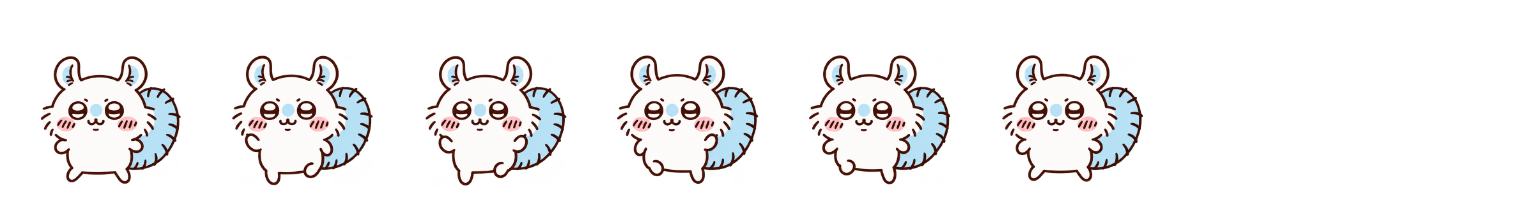
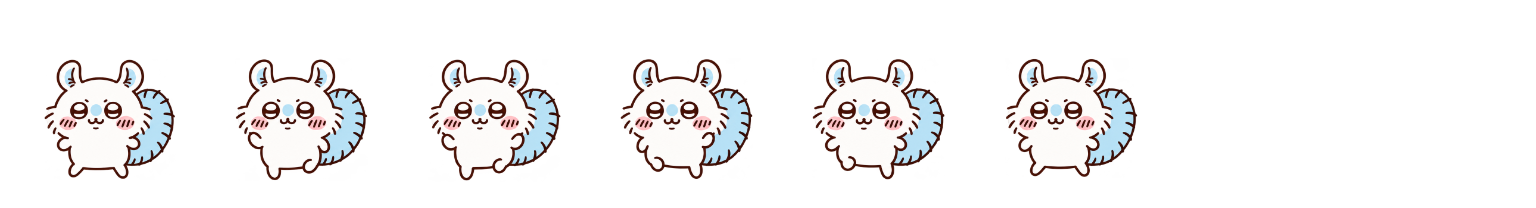
fix(momonga): keep grabbed animation at idle scale (#3)
Calibrate the six grabbed frames to the idle and walking face scale without changing frame timing or face anchors. Add an asset-size regression check and document the DAP 1.6.7 requirement for independent drag frames.

Changed region(s): [[0.0, 0.2596, 0.625, 0.8942], [0.6562, 0.2596, 0.75, 0.8654]]

diff --git a/RELEASE_NOTES.md b/RELEASE_NOTES.md
@@ -1,4 +1,9 @@
-# Chiikawa Friends v1.4.0
+# Chiikawa Friends v1.4.1
+
+- 모몽가의 잡힘 모션을 대기·걷기와 같은 얼굴 배율로 보정했습니다. 드래그 중 커 보이던 차이를 줄이고, 6개 프레임과 얼굴 기준 위치는 유지합니다.
+- 구형 DAP 1.6.5는 드래그에 옛 waiting 이미지를 사용합니다. 새 잡힘 모션을 사용하려면 DAP 본체도 1.6.7 이상으로 업데이트해야 합니다.
+
+## v1.4.0의 모션 확장
 
 - 치이카와 6개, 하치와레 1개, 모몽가 7개: 생성 모션 14개를 제공합니다.
 - DAP 1.6.7 이상에서 수면·먹기·그루밍·잡힘·성공·춤을 독립 재생합니다. 성공 동작은 연속 점프와 반동을 유지합니다.

diff --git a/README.md b/README.md
@@ -16,7 +16,7 @@ DAP 1.6.1 이상에서 **설정 → 플러그인 → Chiikawa Friends → 설치
 
 ### ZIP으로 수동 설치할 때
 
-1. GitHub Releases에서 `dap-chiikawa-friends-v1.4.0.zip`을 받아 풉니다.
+1. GitHub Releases에서 `dap-chiikawa-friends-v1.4.1.zip`을 받아 풉니다.
 2. 아래 폴더 바로 안에 `plugin.yaml`이 오도록 파일을 복사하고 DAP를 다시 실행합니다.
 3. DAP 트레이 또는 펫 메뉴에서 **치이카와 친구들 / 친구들**을 엽니다.
 4. **원본 이미지 받기**를 누릅니다. 11개 이미지 약 26MB를 원본 GitHub 저장소에서 직접 받아 SHA-256과 크기를 확인합니다. 준비가 끝나면 캐릭터를 고르고 **적용**을 누르세요.
